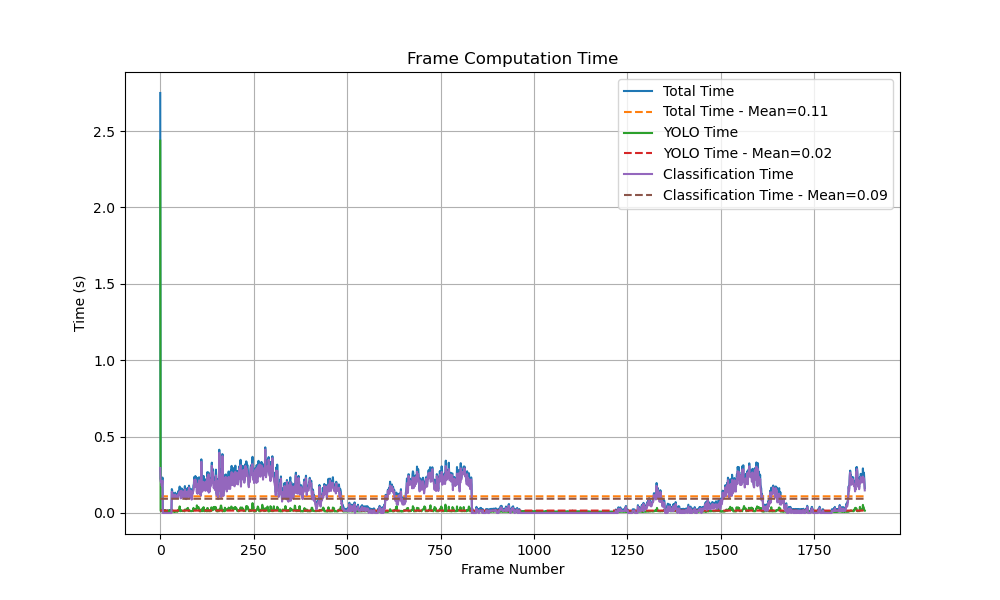
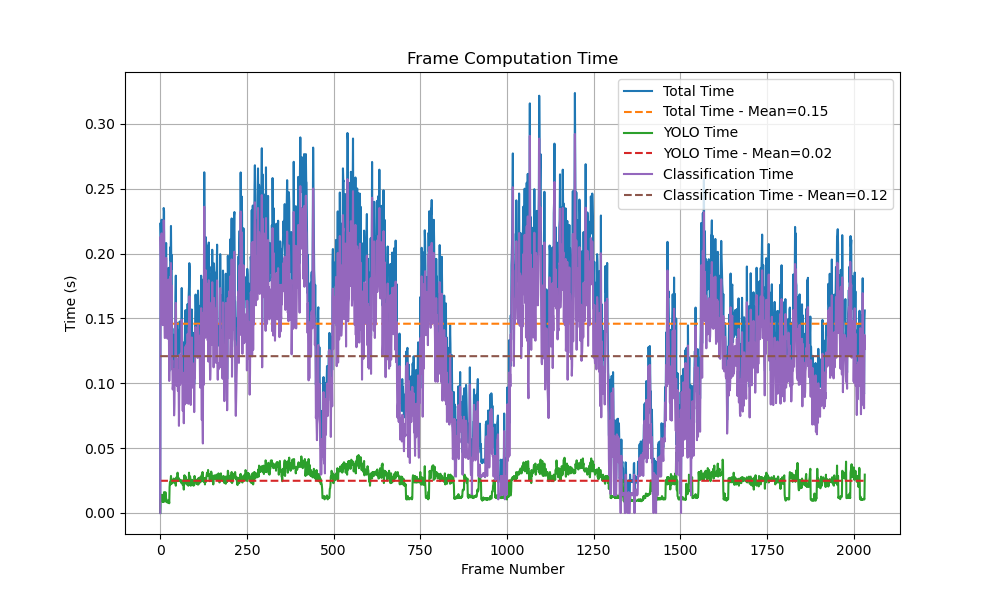
:bee: Tested using a 5-minute live video stream pushing of a video captured in Time Square from OBS camera.

diff --git a/main.py b/main.py
@@ -14,7 +14,7 @@ from step01_annotate_image.annotate_image import FrameAnnotatorPose
 from step01_annotate_image.utils_annotation import FrameAnnotatorPoseUtils
 from step03_parse_image.parse_image import crop_pedestrians
 
-# @functools.lru_cache()
+
 def annotate_one_person(
         frame_to_process,
         stc_model_and_scaler,
@@ -107,7 +107,13 @@ def process_one_frame(
     return num_people, [time_YOLO, time_classification]
 
 
-def plot_multiple_arrays(arrays, labels, config):
+def plot_performance_report(arrays, labels, config):
+    """
+    Plot the performance report.
+    :param arrays: The performance indications.
+    :param labels: The labels of each curve.
+    :param config: Plot configurations.
+    """
     if not all(len(array) == len(arrays[0]) for array in arrays):
         raise ValueError("All arrays must be the same length.")
 
@@ -125,6 +131,7 @@ def plot_multiple_arrays(arrays, labels, config):
     plt.legend()
     plt.grid(True)
     plt.show()
+
 
 if __name__ == "__main__":
     """ Utilities Initialization """
@@ -183,18 +190,25 @@ if __name__ == "__main__":
             YOLO_model=YOLOv5s_model,
             device=device
         )
-        end_time = time.time()
-        report['Total Time'].append(end_time - start_time)
+        report['Total Time'].append(time.time() - start_time)
         report['YOLO Time'].append(time_YOLO)
         report['Classification Time'].append(time_classification)
 
         if utils_general.break_loop():
             break
 
-    plot_multiple_arrays(
-        # [frame_total_time, frame_time_YOLO, frame_time_classification],
+    # Remove performance data of the first frame.
+    # Initialization takes significant time, bad for mean value.
+    report = {key: [0] + value[1:] for key, value in report.items()}
+
+    # Performance Report.
+    plot_performance_report(
         list(report.values()),
         report.keys(),
-        {'title': 'Frame Computation Time', 'x_name': 'Frame Number', 'y_name': 'Time (s)'})
-    # plot_array(frame_num_people, {'title': 'Number of People', 'x_name': 'Frame Number', 'y_name': 'Number of People'})
+        {
+            'title': 'Frame Computation Time',
+            'x_name': 'Frame Number',
+            'y_name': 'Time (s)'
+        }
+    )
 

diff --git a/README.md b/README.md
@@ -126,10 +126,11 @@ performance and reduce glitching.
 
 ![model_application.png](project_documents%2FREADME_images%2Fmodel_application.png)
 
-&emsp; We used a 3-minute New-York Time Square live virtual cam stream pushing to stress test the performance of the
-machine. According to our experiment, the performance of the entire machine is dominated by the mediapipe instance.
+&emsp; We used a 5-minute  live virtual cam stream pushing of Time Square in New York City to stress test the 
+performance of the machine. According to our experiment, the overall performance is dominated by the mediapipe instance
+(displayed as the "Classification Time" curve in the figure).
 
-Testing Source: https://www.youtube.com/watch?v=fR22wuArNQY&t=357s (~1:10 - ~4:37), OBS Virtual Camera.
+Testing Source: https://www.youtube.com/watch?v=fR22wuArNQY&t=357s (~10:00 - ~15:00), using OBS Virtual Camera.
 
 ![performance_analysis.png](project_documents%2FREADME_images%2Fperformance_analysis.png)
 
